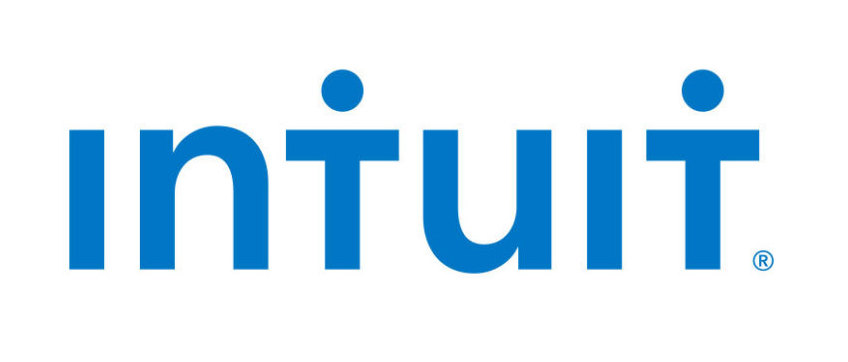
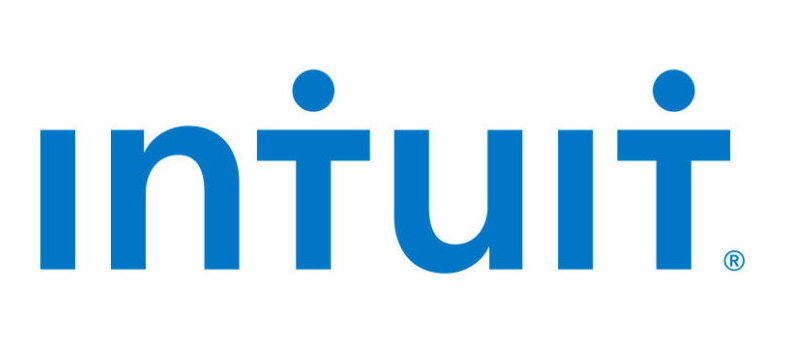
some final changes

diff --git a/index.html b/index.html
@@ -151,7 +151,7 @@
         <div class="row narrow section-intro">
             <div class="col-full">
                 <h1>My Latest Projects.</h1>
-                <p class="lead">Right click the link symbol and click "Open Link in New Tab" to see the project.</p>
+                <p class="lead">To see more details about a project, click its picture.</p>
             </div>
         </div>
 
@@ -178,9 +178,9 @@
                             </p>
                         </div>
 
-                        <a href="https://www.figma.com/proto/Tjbx9HfkzbHUhwviynOu68/ReDiscover?node-id=551%3A7104&scaling=scale-down&page-id=446%3A7102&starting-point-node-id=551%3A7104" class="item-folio__project-link" title="Project link">
+                        <!-- <a href="https://www.figma.com/proto/Tjbx9HfkzbHUhwviynOu68/ReDiscover?node-id=551%3A7104&scaling=scale-down&page-id=446%3A7102&starting-point-node-id=551%3A7104" class="item-folio__project-link" title="Project link">
                             <i class="im im-link"></i>
-                        </a>
+                        </a> -->
 
                         <div class="item-folio__caption">
                             <ul style="text-align: left; font-size: 15px;">
@@ -214,9 +214,9 @@
                             </p>
                         </div>
 
-                        <a href="https://www.figma.com/proto/pa54bzb8bJPTrziNQg7h3f/hci_sample?node-id=2%3A2" class="item-folio__project-link" title="Project link">
+                        <!-- <a href="https://www.figma.com/proto/pa54bzb8bJPTrziNQg7h3f/hci_sample?node-id=2%3A2" class="item-folio__project-link" title="Project link">
                             <i class="im im-link"></i>
-                        </a>
+                        </a> -->
 
                         <div class="item-folio__caption">
                             <ul style="text-align: left; font-size: 15px;">
@@ -251,9 +251,9 @@
                             </p>
                         </div>
 
-                        <a href="https://github.com/ucladevx/BQuest-Frontend" class="item-folio__project-link" title="Project link">
+                        <!-- <a href="https://github.com/ucladevx/BQuest-Frontend" class="item-folio__project-link" title="Project link">
                             <i class="im im-link"></i>
-                        </a>
+                        </a> -->
 
                         <div class="item-folio__caption">
                             <ul style="text-align: left; font-size: 15px;">
@@ -287,9 +287,9 @@
                             </p>
                         </div>
 
-                        <a href="https://drive.google.com/open?id=10eL0oWVsUlXB_-LklZmaQaX7MXbNTRLA" class="item-folio__project-link" title="Project link">
+                        <!-- <a href="https://drive.google.com/open?id=10eL0oWVsUlXB_-LklZmaQaX7MXbNTRLA" class="item-folio__project-link" title="Project link">
                             <i class="im im-link"></i>
-                        </a>
+                        </a> -->
 
                         <div class="item-folio__caption">
                             <ul style="text-align: left; font-size: 15px;">
@@ -322,9 +322,9 @@
                             </p>
                         </div>
 
-                        <a href="https://docs.google.com/presentation/d/1-9mI3YMMw21jTYIVVDkLpkoTb_YuP_M7Q6LnGGXEvCY/edit?usp=sharing" class="item-folio__project-link" title="Project link">
+                        <!-- <a href="https://docs.google.com/presentation/d/1-9mI3YMMw21jTYIVVDkLpkoTb_YuP_M7Q6LnGGXEvCY/edit?usp=sharing" class="item-folio__project-link" title="Project link">
                             <i class="im im-link"></i>
-                        </a>
+                        </a> -->
 
                         <div class="item-folio__caption">
                             <ul style="text-align: left; font-size: 15px;">
@@ -358,9 +358,9 @@
                             </p>
                         </div>
 
-                        <a href="https://docs.google.com/presentation/d/1552acfR6TauX_9Uc51Jl8cc3zPNldWALv511CaGZGtc/edit?usp=sharing" class="item-folio__project-link" title="Project link">
+                        <!-- <a href="https://docs.google.com/presentation/d/1552acfR6TauX_9Uc51Jl8cc3zPNldWALv511CaGZGtc/edit?usp=sharing" class="item-folio__project-link" title="Project link">
                             <i class="im im-link"></i>
-                        </a>
+                        </a> -->
 
                         <div class="item-folio__caption">
                             <ul style="text-align: left; font-size: 15px;">
@@ -394,9 +394,9 @@
                             </p>
                         </div>
 
-                        <a href="https://github.com/tttttliao/HOTHV" class="item-folio__project-link" title="Project link">
+                        <!-- <a href="https://github.com/tttttliao/HOTHV" class="item-folio__project-link" title="Project link">
                             <i class="im im-link"></i>
-                        </a>
+                        </a> -->
 
                         <div class="item-folio__caption">
                             <ul style="text-align: left; font-size: 15px;">
@@ -431,9 +431,9 @@
                             </p>
                         </div>
 
-                        <a href="https://github.com/YuanpingSong/alphaboard" class="item-folio__project-link" title="Project link">
+                        <!-- <a href="https://github.com/YuanpingSong/alphaboard" class="item-folio__project-link" title="Project link">
                             <i class="im im-link"></i>
-                        </a>
+                        </a> -->
 
                         <div class="item-folio__caption">
                             <ul style="text-align: left; font-size: 15px;">
@@ -461,7 +461,7 @@
             <div class="row narrow section-intro">
                 <div class="col-full text-center">
                     <h1>My Experiences.</h1>
-                    <p class="lead"></p>              
+                    <p class="lead">Left-hand side are my Academic experiences and Extracurricular activities.<br>Right-hand side are my PM, SWE, and Entrepreneurship experiences.</p>           
                 </div>
             </div>
 
@@ -498,7 +498,39 @@
                     <div class="timeline__block">
                         <div class="timeline__bullet"></div>
                         <div class="timeline__header">
-                            <p class="timeline__timeframe">May 2019 - June 2019</p>
+                            <p class="timeline__timeframe">Dec 2020 - Jun 2021</p>
+                            <div><img src="images/ucla.png" style="width:150px; height:150px;"></div>
+                            <h3>University of California, Los Angeles</h3>
+                            <h5>Head Teaching Assistant</h5>
+                        </div>
+                        <div class="timeline__desc">
+                            <ul>
+                                <li>Taught core data structures and algorithms in C++ to over 40 students through discussions and office hours and trained new teaching assistants.</li>
+                                <li>Received positive feedback from over 95% of them.</li>
+                            </ul>   
+                        </div>
+                    </div> <!-- end timeline__block -->
+
+                    <div class="timeline__block">
+                        <div class="timeline__bullet"></div>
+                        <div class="timeline__header">
+                            <p class="timeline__timeframe">Apr 2021 - May 2021</p>
+                            <div><img src="images/stanford.png" style="width:150px; height:150px;"></div>
+                            <h3>Stanford University</h3>
+                            <h5>Section Leader</h5>
+                        </div>
+                        <div class="timeline__desc">
+                            <ul>
+                                <li>Taught a group of 10 students fundamental Python programming through weekly sessions in the Code in Place program.</li>
+                                <li>Received 5/5 rating for every session.</li>
+                            </ul>   
+                        </div>
+                    </div> <!-- end timeline__block -->
+
+                    <div class="timeline__block">
+                        <div class="timeline__bullet"></div>
+                        <div class="timeline__header">
+                            <p class="timeline__timeframe">May 2019 - Jun 2019</p>
                             <div><img src="images/bda.jpg" style="width:400px; height:80px;"></div>
                             <h3>Bruin Development Academy</h3>
                             <h5>Product Management Fellow</h5>
@@ -507,7 +539,7 @@
                             <ul>
                                 <li>An selective training program which aims at helping students break into the field of product management.</li>
                                 <li>Participated in panel discussions and skills-based training (such as design thinking and how to create low-fidelity wireframes) led by industry PMs.</li>
-                                <li>Worked in team to design an ingredient-and-recipe delivery app to help college students cook.</li>
+                                <li>Worked with a team of 6 to design an ingredient-and-recipe delivery app.</li>
                             </ul>   
                        
                         </div>
@@ -516,7 +548,7 @@
                     <div class="timeline__block">
                         <div class="timeline__bullet"></div>
                         <div class="timeline__header">
-                            <p class="timeline__timeframe">Jan 2019 - June 2021</p>
+                            <p class="timeline__timeframe">Jan 2019 - Jun 2021</p>
                             <div><img src="images/upe.png" style="width:150px; height:150px;"></div>
                             <h3>Upsilon Pi Epsilon Computer Science Honor Society</h3>
                             <h5>Design & Mentorship Director</h5>
@@ -534,7 +566,7 @@
                     <div class="timeline__block">
                         <div class="timeline__bullet"></div>
                         <div class="timeline__header">
-                            <p class="timeline__timeframe">Sep 2019 - Present</p>
+                            <p class="timeline__timeframe">Sep 2019 - Jun 2021</p>
                             <div><img src="images/dipd@ucla.png" style="width:140x; height:140px;"></div>
                             <h3>Diversity and Inclusion in Product and Data</h3>
                             <h5>President</h5>
@@ -574,54 +606,34 @@
                     <div class="timeline__block">
                         <div class="timeline__bullet"></div>
                         <div class="timeline__header">
+                            <p class="timeline__timeframe">Aug 2021 - Present</p>
+                            <div><img src="images/productbuds.png" style="width:394px; height:93px;"></div>
+                            <h3>Product Buds</h3>
+                            <h5>Product Management Fellow</h5>
+                        </div>
+                        <div class="timeline__desc">
+                            <ul>
+                                <li>Chosen as 1 of 30 from 300+ applicants to take part in the Product Buds' Fall 2021 Fellowship.</li>
+                                <li>The fellowship runs for 10 weeks and consists of 1:1 mentorship with experienced PMs, Product-focused workshops and fireside chats, Resume-ready projects, and Career and interview prep.</li>
+                            </ul>
+                        </div>
+                    </div> <!-- end timeline__block -->
+
+                    <div class="timeline__block">
+                        <div class="timeline__bullet"></div>
+                        <div class="timeline__header">
                             <p class="timeline__timeframe">Jun 2020 - Sep 2020</p>
-                            <div><img src="images/intuit.jpg" style="width:210x; height:90px;"></div>
+                            <div><img src="images/intuit.jpg" style="width:198x; height:91px;"></div>
                             <h3>Intuit Inc.</h3>
                             <h5>Product Management Intern, MarTech</h5>
                         </div>
                         <div class="timeline__desc">
                             <ul>
-                                <li>Conducted 15+ observation sessions with different MarTech activation managers and marketers to identify target users and narrow down the problem space of clickstream data discoverability.</li>
-                                <li>Worked with engineers on a new process of implementing and maintaining clickstream events with limited resources.</li>
-                                <li>Created wireframes for my final solution, an event documentation UI with search, filtering, and report capabilities.</li>
-                                <li>Validated the final solution with MarTech activation managers and proved that this product can save them at least 50% of the time spent in finding out the clickstream data needed for creating an audience.</li>
+                                <li>Reduced the average time taken for a marketer to find the correct clickstream events to under 1 hr (~50% less than before) by leading problem definition, ideation, design, and validation for a clickstream event documentation product.</li>
+                                <li>Created and presented a product feature roadmap after conducting 15+ user interviews with various marketers and investigating the existing event exploration methods, successfully getting buy-in from multiple stakeholders.</li>
+                                <li>Worked with engineers on creating a new process of implementing and maintaining events with limited resources.</li>
+                                <li>Created a high-fidelity prototype for the website using Axure and iterated on it by conducting usability testing.</li>
                             </ul>
-                        </div>
-                    </div> <!-- end timeline__block -->
-
-                    <div class="timeline__block">
-                        <div class="timeline__bullet"></div>
-                        <div class="timeline__header">
-                            <p class="timeline__timeframe">May 2019 - Sep 2019</p>
-                            <div><img src="images/gowithtommy.png" style="width:130x; height:130px;"></div>
-                            <h3>Go with Tommy Technology Co., Ltd.</h3>
-                            <h5>Product Management Intern</h5>
-                        </div>
-                        <div class="timeline__desc">
-                            <ul>
-                                <li>Created low-fidelity prototypes for new features such as "Red Packets Sharing," "Hundreds of Q&As for Each City," and "Recommended Walking Routes," and worked with designers and engineers to develop these features. Features that were launched resulted in ~15% more paying users globally.</li>
-                                <li>Improved existing tourist attractions in our app by redesigning their maps and researching competing products, which accomplished globally ~10% more likes per week within our app and ~5% more paying users.</li>
-                                <li>Co-led the development of a new pricing strategy for our app and accomplished ~$5,000 more profits.</li>
-                                <li>Wrote several great SOPs (Standard Operation Procedures) that have achieved ~$1,000 labor cost savings for our company.</li>
-                            </ul>
-                        </div>
-                    </div> <!-- end timeline__block -->
-
-                    <div class="timeline__block">
-                        <div class="timeline__bullet"></div>
-                        <div class="timeline__header">
-                            <p class="timeline__timeframe">Apr 2020 - Present</p>
-                            <div><img src="images/peerlink.jpeg" style="width:150px; height:150px;"></div>
-                            <h3>PeerLink - Link Peers Together</h3>
-                            <h5>Co-founder</h5>
-                        </div>
-                        <div class="timeline__desc">
-                            <ul>
-                                <li>Co-founded an education platform aiming to provide Chinese high school students access to various US college application information and connect them with US college students, which has acquired about 1.5k followers on WeChat, produced 20+ original articles, and attracted 200+ mentors and mentees with our mentorship program.</li>
-                                <li>Recruited and managed a team of about 40 talented students across the world.</li>
-                                <li>Successfully acquired an education organization called "APPedia" which consists of 4 gifted individuals.</li>
-                            </ul>   
-                       
                         </div>
                     </div> <!-- end timeline__block -->
 
@@ -640,6 +652,42 @@
                                 <li>Saved other software engineers 100+ hours of manual work by developing this tool with Dart and Miro's API.</li>
                                 <li>Created technical documentation and presented weekly for the engineering team around useful Flutter knowledge, saving everyone hours of browsing tutorials online.</li>
                             </ul>   
+                        </div>
+                    </div> <!-- end timeline__block -->
+
+                    <div class="timeline__block">
+                        <div class="timeline__bullet"></div>
+                        <div class="timeline__header">
+                            <p class="timeline__timeframe">Apr 2020 - Jun 2021</p>
+                            <div><img src="images/peerlink.jpeg" style="width:150px; height:150px;"></div>
+                            <h3>PeerLink (Education Startup)</h3>
+                            <h5>Co-founder, CEO</h5>
+                        </div>
+                        <div class="timeline__desc">
+                            <ul>
+                                <li>Co-founded an education startup aiming to provide Chinese high school students access to various U.S. college application information and connect them with U.S. college students.</li>
+                                <li>Led a cross-functional team of 40 to compose articles weekly, build a mentorship program, and create an application help service, leading to 1.5k followers on social media, 200+ mentors and mentees, and around $5,000 in revenue.</li>
+                                <li>Established partnerships with around 10 external individuals and firms and hosted events that attracted hundreds of participants.</li>
+                                <li>Successfully acquired an education organization called "APPedia".</li>
+                            </ul>   
+                        </div>
+                    </div> <!-- end timeline__block -->
+
+                    <div class="timeline__block">
+                        <div class="timeline__bullet"></div>
+                        <div class="timeline__header">
+                            <p class="timeline__timeframe">May 2019 - Sep 2019</p>
+                            <div><img src="images/gowithtommy.png" style="width:130x; height:130px;"></div>
+                            <h3>Go with Tommy Technology Co., Ltd.</h3>
+                            <h5>Product Management Intern</h5>
+                        </div>
+                        <div class="timeline__desc">
+                            <ul>
+                                <li>Increased the number of our global users by 15% by leading product ideation, development, and launch for new features such as "Hundreds of Q&As for Each City" and "Recommended Walking Routes."</li>
+                                <li>Created mockups for the new features and organized meetings with designers and engineers to obtain feedback.</li>
+                                <li>Improved existing tourist attractions in our app by redesigning their maps and researching competing products, which accomplished ~10% more likes per week within our app and ~5% more paying users.</li>
+                                <li>Wrote several Standard Operation Procedures that achieved ~$1,000 labor cost savings for our company.</li>
+                            </ul>
                         </div>
                     </div> <!-- end timeline__block -->
 
